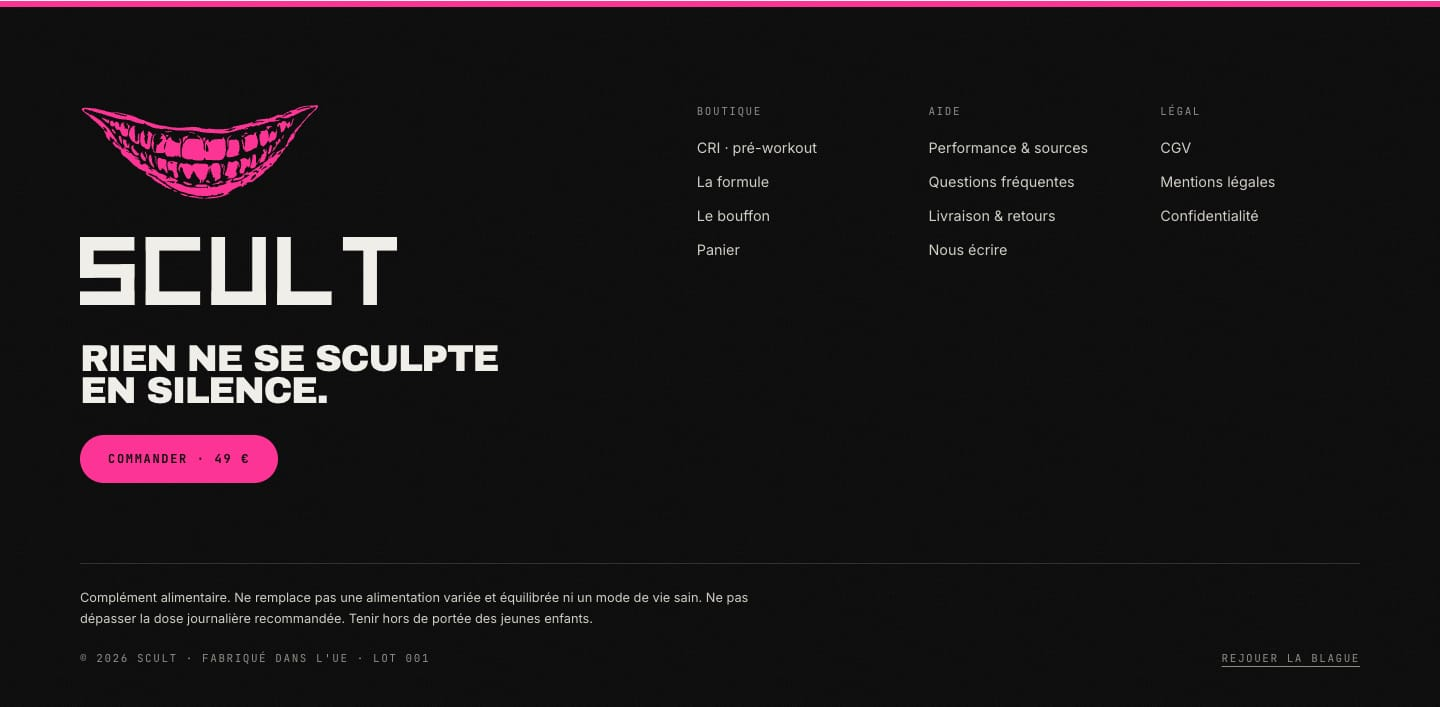
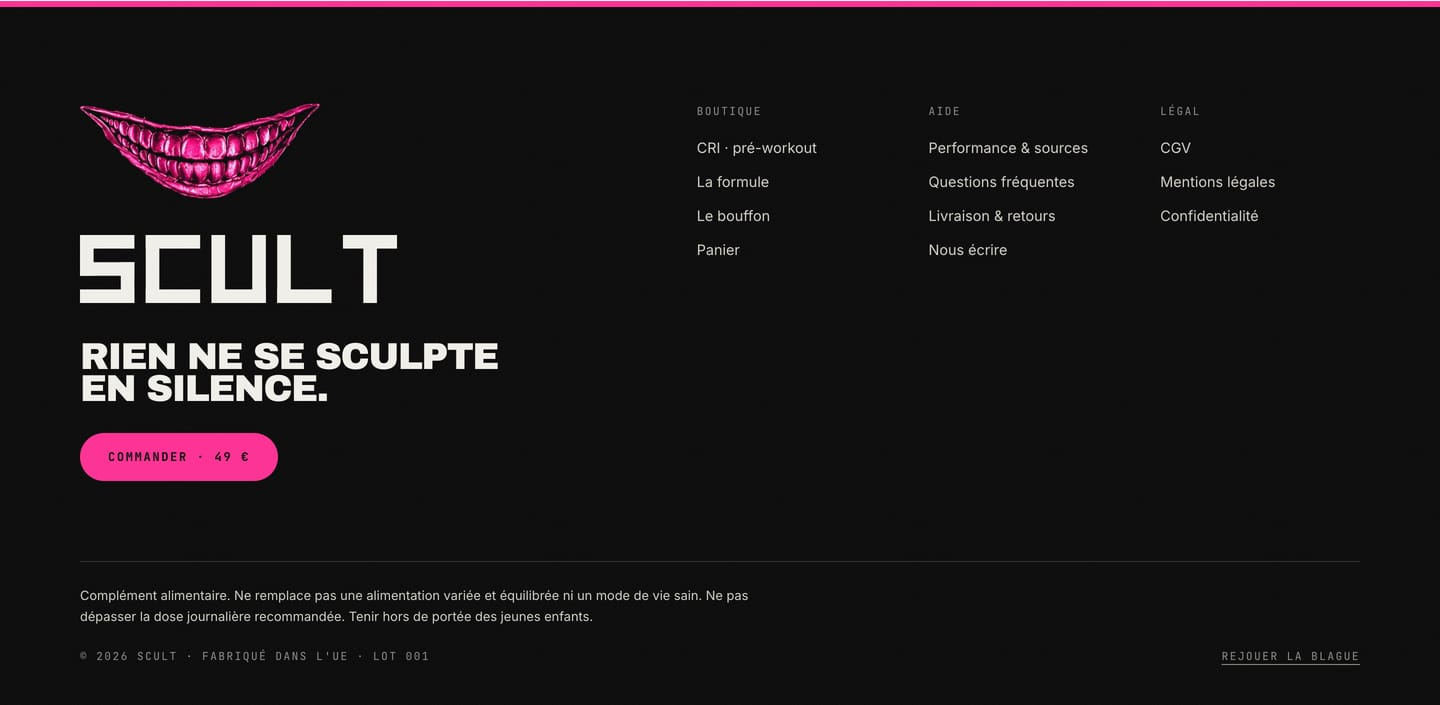
feat(marque): le sourire chromé, comme sur le couvercle, avec un éclat de lumière
- sourire-chrome.webp : la photo du couvercle, détourée sur son rose
  métallisé, à la place de l'aplat rose dans le pied de page.
- Un éclat de lumière le traverse toutes les cinq secondes (pas en
  mouvement réduit).
- Icône du site : le sourire chromé sur carré noir.

diff --git a/src/components/site/Footer.tsx b/src/components/site/Footer.tsx
@@ -22,9 +22,11 @@ export function Footer() {
         <div className="grid gap-12 md:grid-cols-[minmax(0,5fr)_minmax(0,6fr)] md:gap-16">
           <div>
             <Link href="/" aria-label="SCULT — accueil" className="group inline-block">
-              {/* Le sourire du couvercle, emblème de la marque (public/brand/sourire.svg) */}
-              {/* eslint-disable-next-line @next/next/no-img-element -- un SVG servi tel quel, rien à optimiser */}
-              <img src="/brand/sourire.svg" alt="" width={931} height={382} loading="lazy" className="mb-7 block h-auto w-[clamp(9rem,17vw,15rem)] origin-left transition-transform duration-500 ease-(--ease-scult) group-hover:scale-[1.04] md:mb-9" />
+              {/* Le sourire chromé du couvercle, emblème de la marque : la photo du couvercle, détourée (public/brand/) */}
+              <span className="sourire mb-7 w-[clamp(9rem,17vw,15rem)] origin-left transition-transform duration-500 ease-(--ease-scult) group-hover:scale-[1.04] md:mb-9">
+                {/* eslint-disable-next-line @next/next/no-img-element -- deux fichiers fixes, rien à optimiser */}
+                <img src="/brand/sourire-chrome.webp" srcSet="/brand/sourire-chrome-480.webp 480w, /brand/sourire-chrome.webp 921w" sizes="(min-width: 768px) 15rem, 9rem" alt="" width={921} height={370} loading="lazy" className="block h-auto w-full" />
+              </span>
               <Wordmark className="h-[clamp(2rem,4.8vw,4.25rem)] w-auto" />
             </Link>
             <p className="display mt-6 text-[clamp(1.5rem,2.6vw,2.4rem)] md:mt-8">{FOOTER.signature}</p>

diff --git a/src/app/globals.css b/src/app/globals.css
@@ -183,6 +183,23 @@ body::after {
 @keyframes carte-reflet { from { opacity: 1; transform: translateX(-140%) skewX(-24deg); } to { opacity: 1; transform: translateX(320%) skewX(-24deg); } }
 .carte-reflet:hover::after { animation: carte-reflet 1.1s cubic-bezier(0.45, 0, 0.55, 1); }
 
+/* Le sourire chromé (pied de page) : un éclat de lumière le traverse toutes les quelques secondes,
+   découpé dans sa forme par un masque. Il s'ajoute au rose (`plus-lighter`), comme un reflet sur du métal. */
+.sourire { position: relative; display: block; }
+.sourire::after {
+  content: "";
+  position: absolute;
+  inset: 0;
+  pointer-events: none;
+  background: linear-gradient(105deg, transparent 44%, rgb(255 255 255 / 0.75) 50%, transparent 56%) 100% 0 / 250% 100% no-repeat;
+  -webkit-mask: url(/brand/sourire-chrome-480.webp) center / 100% 100% no-repeat;
+  mask: url(/brand/sourire-chrome-480.webp) center / 100% 100% no-repeat;
+  mix-blend-mode: plus-lighter;
+  animation: sourire-eclat 5s cubic-bezier(0.45, 0, 0.55, 1) 1.2s infinite;
+}
+@keyframes sourire-eclat { 0% { background-position: 100% 0; } 32%, 100% { background-position: 0% 0; } }
+@media (prefers-reduced-motion: reduce) { .sourire::after { animation: none; } }
+
 /* Bande d'annonce au-dessus de la navigation : le texte défile en continu */
 @keyframes annonce { from { transform: translate3d(0, 0, 0); } to { transform: translate3d(-50%, 0, 0); } }
 .annonce-piste { animation: annonce 28s linear infinite; }

diff --git a/ASSUMPTIONS.md b/ASSUMPTIONS.md
@@ -43,7 +43,7 @@ Cette section remplace, là où elles se contredisent, les hypothèses [04], [14
 - [55] **Photos du pot sur fond blanc** (galerie, catalogue de test, page Méthode), demandées à la place du fond gris. Ce sont les photos fournies, détourées sur Higgsfield (fond retiré, rien de redessiné) puis posées par `scripts/bouffon-images.mjs` sur un blanc 4:5, à la même échelle, avec une ombre de contact ; elles s'affichent sans recadrage ni déformation. Les vues autres que la face viennent d'une planche de 2688 px : elles sont trois fois moins définies que le packshot. Un agrandissement par IA a été essayé et écarté : il redessinait le masque du bouffon. Les proportions du pot diffèrent un peu d'une photo fournie à l'autre (largeur ÷ hauteur de 0,55 à 0,58) : c'est dans les sources.
 - [56] **Cartes « 1 pot / Pack de 2 » : le pot en 3D**, sur blanc, à la place de la photo ; celui de la carte choisie tourne lentement (pas en mouvement réduit). Sans WebGL, l'image fixe du modèle reste. Le pot 3D est un peu plus trapu que celui des photos ([50]). **Seule modification d'un fichier du panier** : `src/components/cart/PurchaseOptions.tsx` (la vignette et le rond de sélection, pas la logique d'achat). Les vignettes du tiroir du panier restent des images, maintenant détourées (`pot-detoure`).
 
-- [57] **Le sourire du couvercle devient l'emblème de la marque** (demandé le 2026-11-25) : `public/brand/sourire.svg`, tracé à partir de la photo fournie du couvercle, pas d'un fichier vectoriel d'origine — à remplacer par le dessin source s'il existe. Posé dans le pied de page, au-dessus du logo, et en icône du site, ce qui règle au passage l'absence de favicon ([49]).
+- [57] **Le sourire du couvercle devient l'emblème de la marque** (demandé le 2026-11-25) : `public/brand/sourire-chrome.webp`, chromé comme sur le pot : c'est la photo fournie du couvercle, détourée (921 px de large, assez pour le pied de page, pas pour un grand format). `sourire.svg` en est un tracé en aplat. Ni l'un ni l'autre ne vient d'un fichier d'origine — à remplacer par le dessin source s'il existe. Posé dans le pied de page, au-dessus du logo, et en icône du site, ce qui règle au passage l'absence de favicon ([49]).
 
 **Technique**
 - [46] **Panier et tunnel d'achat non modifiés** (`src/components/cart/`, `src/lib/orders/`, `src/app/checkout/page.tsx`). Ils prennent le thème par des alias de couleurs (`klein`, `marble`, `ink`, `white`… dans `globals.css`) et quelques règles CSS par sélecteur. À nettoyer quand ces fichiers pourront être modifiés. Seule la page de confirmation (`checkout/merci`) a reçu l'image du bouffon qui applaudit.

diff --git a/docs/DA.md b/docs/DA.md
@@ -34,7 +34,7 @@
 
 **Le pot en 3D** (`public/models/pot-scult.glb`, `src/components/site/Pot3D.tsx`) : il tourne au défilement dans la section « formule », sur fond blanc, et se pose sur le visuel du slider de l'accueil, où on le fait tourner à la main. Fabrication et limites : `scripts/3d/build-bouffon.sh` et `ASSUMPTIONS.md` [50].
 
-**Le sourire** (`public/brand/sourire.svg`) : la bouche gravée sur le couvercle du pot, emblème de la marque à côté du wordmark. Tracé vectoriel tiré de la photo du couvercle (vue de dessus), en aplat rose `#FF2E93`. Il ouvre le pied de page, au-dessus du logo, et sert d'icône du site (`src/app/icon.svg`, sur carré noir).
+**Le sourire** (`public/brand/sourire.svg`) : la bouche gravée sur le couvercle du pot, emblème de la marque à côté du wordmark. Il est chromé, comme sur le pot : `sourire-chrome.webp` est la photo du couvercle (vue de dessus) dont on n'a gardé que le rose métallisé, sur fond transparent ; un éclat de lumière le traverse toutes les cinq secondes (`.sourire`, `globals.css`). Il ouvre le pied de page, au-dessus du logo, et sert d'icône du site (`src/app/icon.png`, sur carré noir). `sourire.svg` en est le tracé vectoriel en aplat rose, pour les usages où la photo ne passe pas (très petit, une seule couleur).
 
 **Le hero de l'accueil** (`Hero.tsx`, `HeroSlider.tsx`) est un slider de deux visuels : le bouffon sur fond noir (titre en HTML), puis la créa de l'offre sur papier blanc, `hero-offre-*`, dont le titre est peint au pinceau dans l'image. Sur la slide blanche, l'en-tête garde son fond noir. La créa n'est jamais recadrée dans son texte (`.hero-offre-image`, `globals.css`). Mobile : un écran, bouton en bas, deux traits pour changer de slide (ou le doigt). Ordinateur : compteur, flèches et pause en bas à droite.
 
